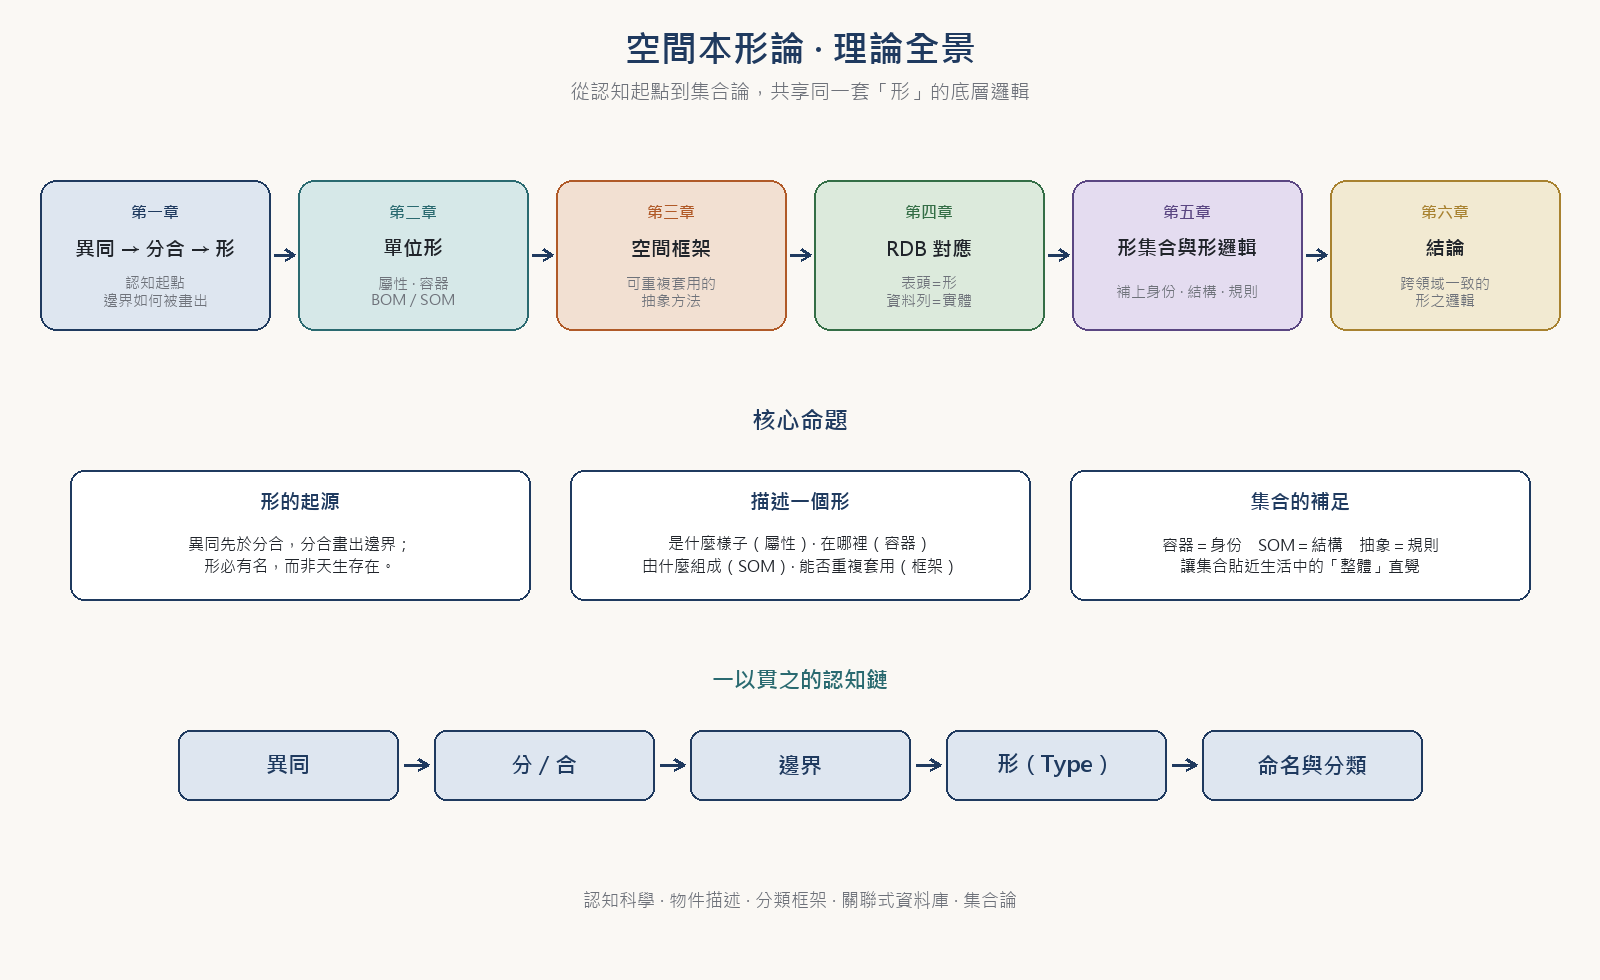
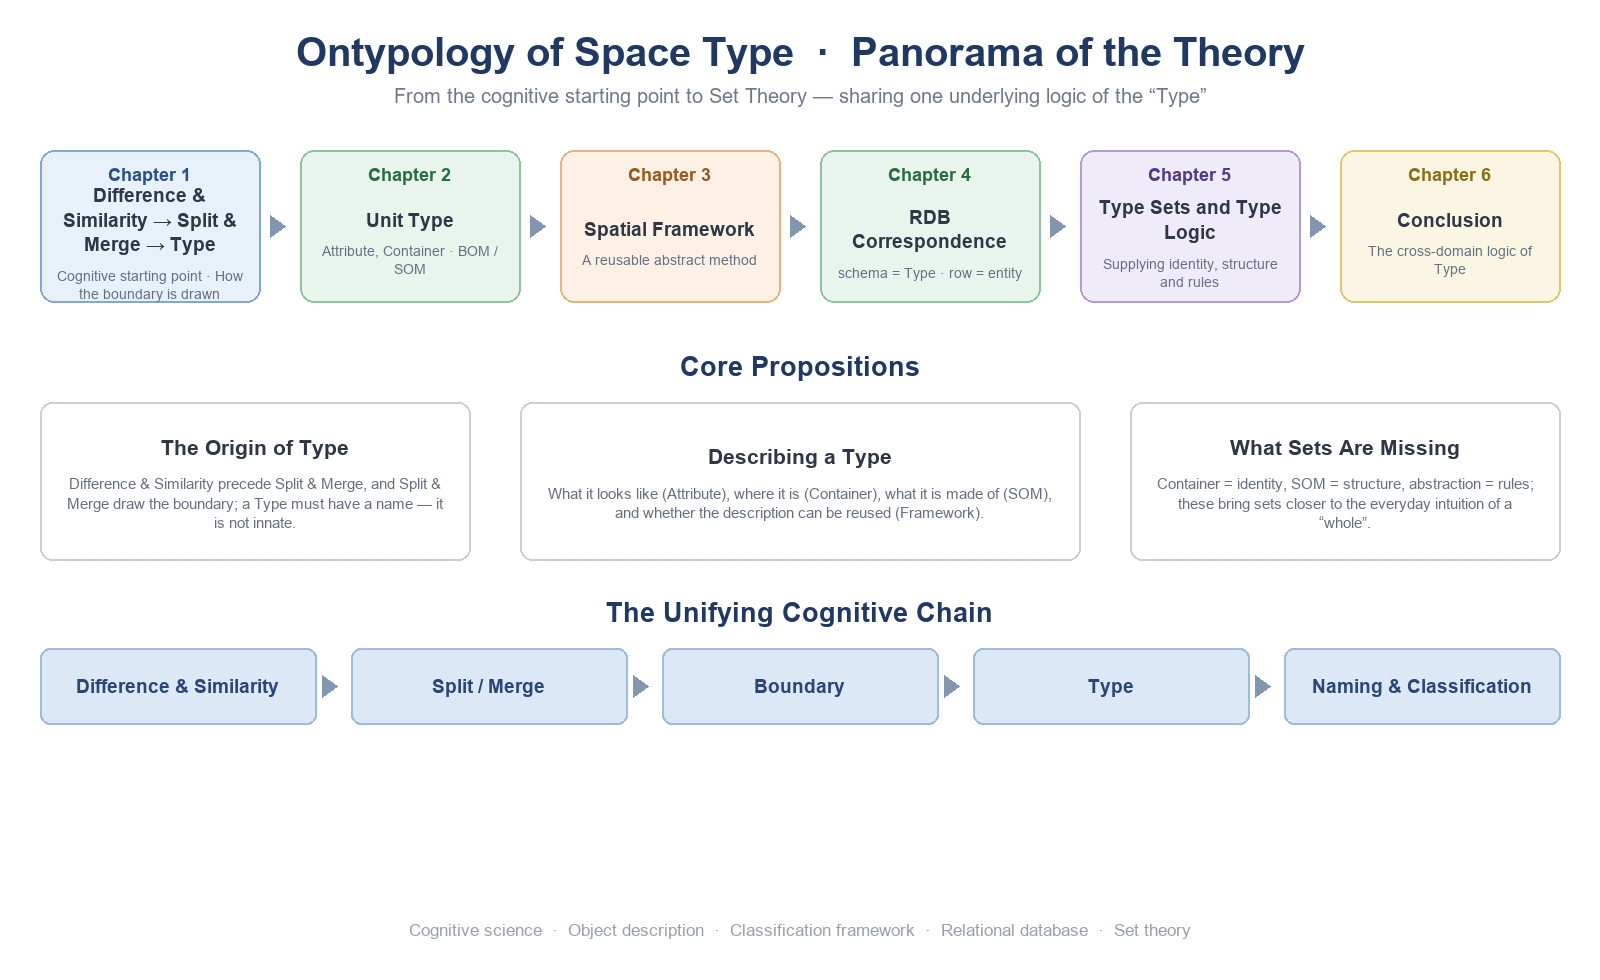
Redraw the eight core Space-Type theory figures in English
- fig1-fig8 in Space-Type/CPIC redrawn with English text (same filenames and dimensions)
- Add a missing caption to the Part Two divider page in Type-Sets-and-Type-Logic/README.md

diff --git a/Space-Type/Type-Sets-and-Type-Logic/README.md b/Space-Type/Type-Sets-and-Type-Logic/README.md
@@ -485,7 +485,9 @@ When we say "there is water in the cup," we are saying three things at once: 1. 
 
 The reason mathematical sets are so useful is precisely that they condense the matter of "a group of things constituting a whole" down to just "does it belong." The theoretical framework established in this text systematically stacks three value-adds on top of this minimal core of the mathematical set, turning the concept of "Type" from an abstract mathematical tool into a cognitive framework capable of fully describing the real world.
 
-![](./media/image17.png)
+![Part Two divider: Mathematical Proofs — Axiomatization, Theorems and Proofs](./media/image17.png)
+
+*Part Two　Mathematical Proofs — Axiomatization, Theorems and Proofs　(the axiomatic reconstruction of Type Logic: four axioms and twelve theorems)*
 
 ![](./media/image18.png)
 
